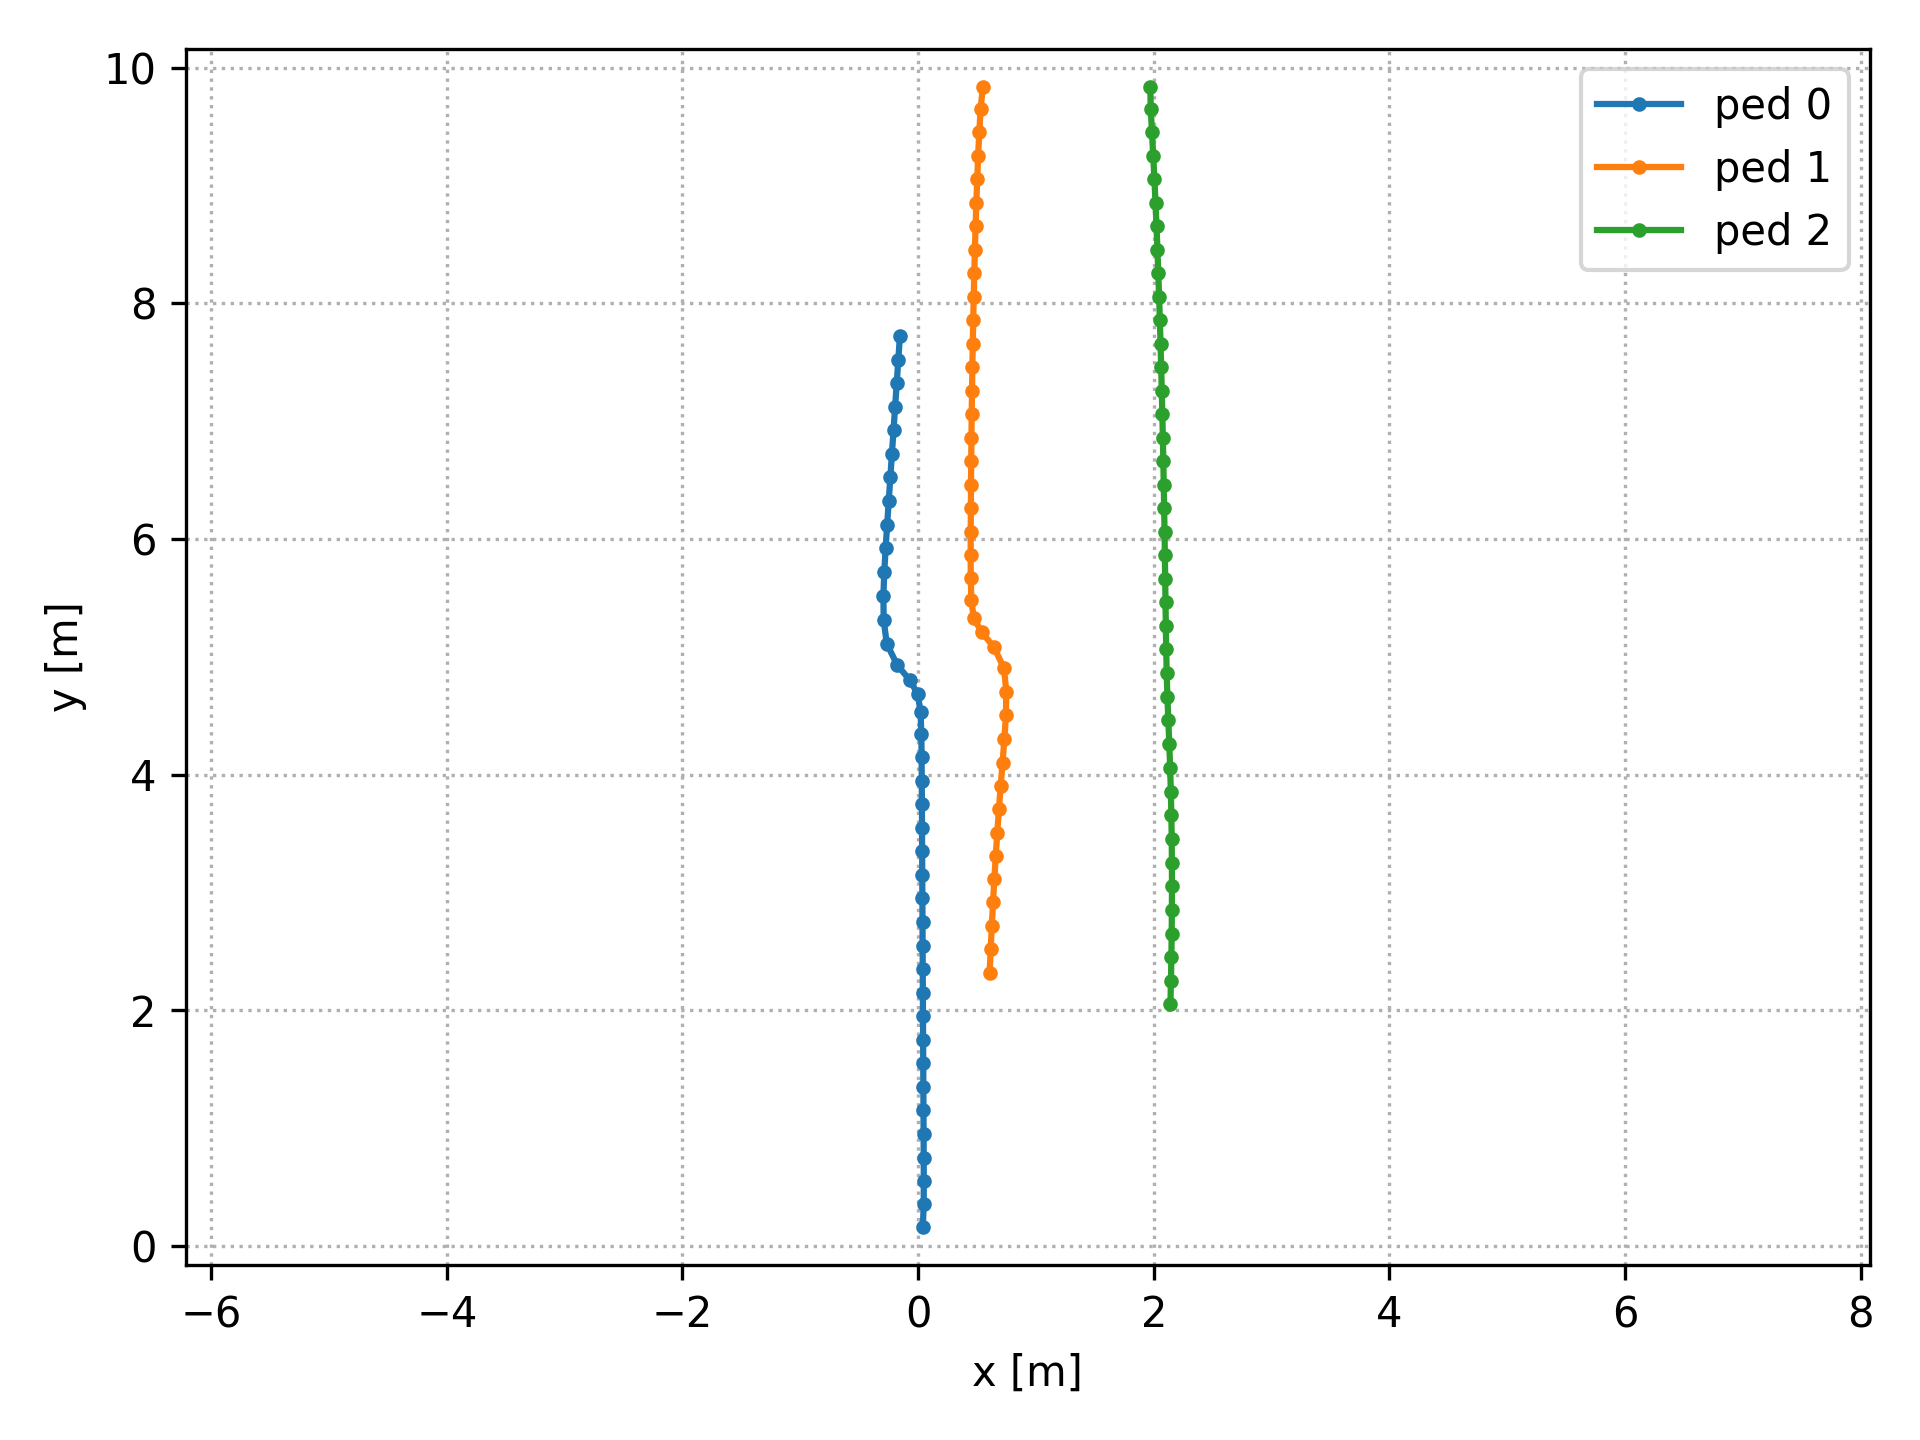
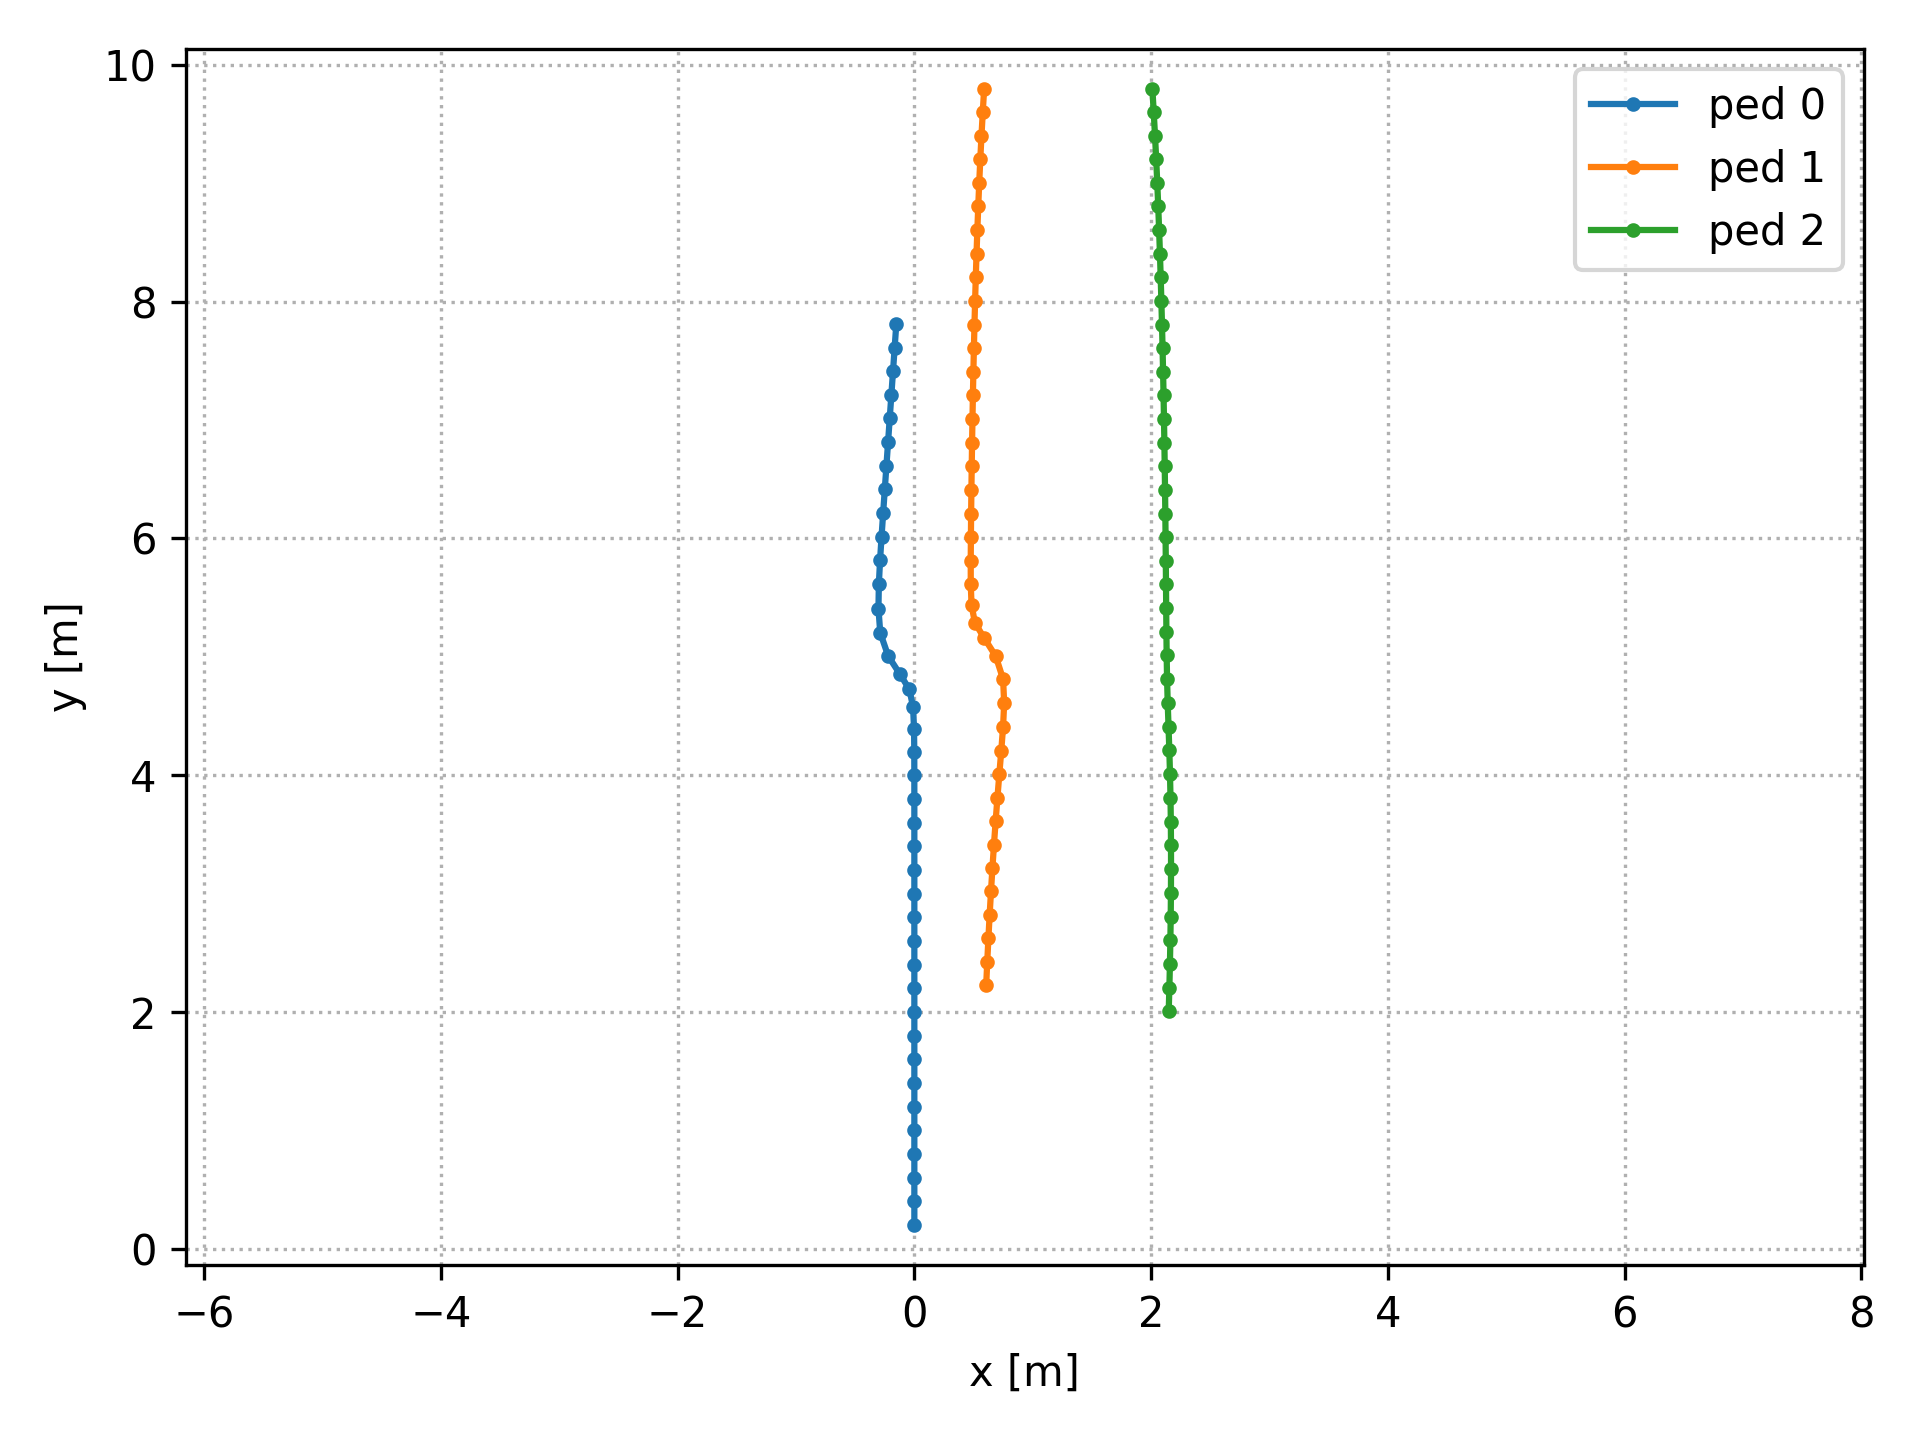
autograd for PedPedPotential

diff --git a/tests/scenarios_numpy_pedpedspace.py b/tests/scenarios_numpy_pedpedspace.py
@@ -85,6 +85,8 @@ def test_gate():
 
 @pytest.mark.parametrize('n', [30, 60])
 def test_walkway(n):
+    np.random.seed(42)
+
     pos_left = ((np.random.random((n, 2)) - 0.5) * 2.0) * np.array([25.0, 5.0])
     pos_right = ((np.random.random((n, 2)) - 0.5) * 2.0) * np.array([25.0, 5.0])
 

diff --git a/tests/scenarios_pedpedspace.py b/tests/scenarios_pedpedspace.py
@@ -89,6 +89,8 @@ def test_gate():
 
 @pytest.mark.parametrize('n', [30, 60])
 def test_walkway(n):
+    torch.manual_seed(42)
+
     pos_left = ((torch.rand((n, 2)) - 0.5) * 2.0) * torch.tensor([25.0, 5.0])
     pos_right = ((torch.rand((n, 2)) - 0.5) * 2.0) * torch.tensor([25.0, 5.0])
 
